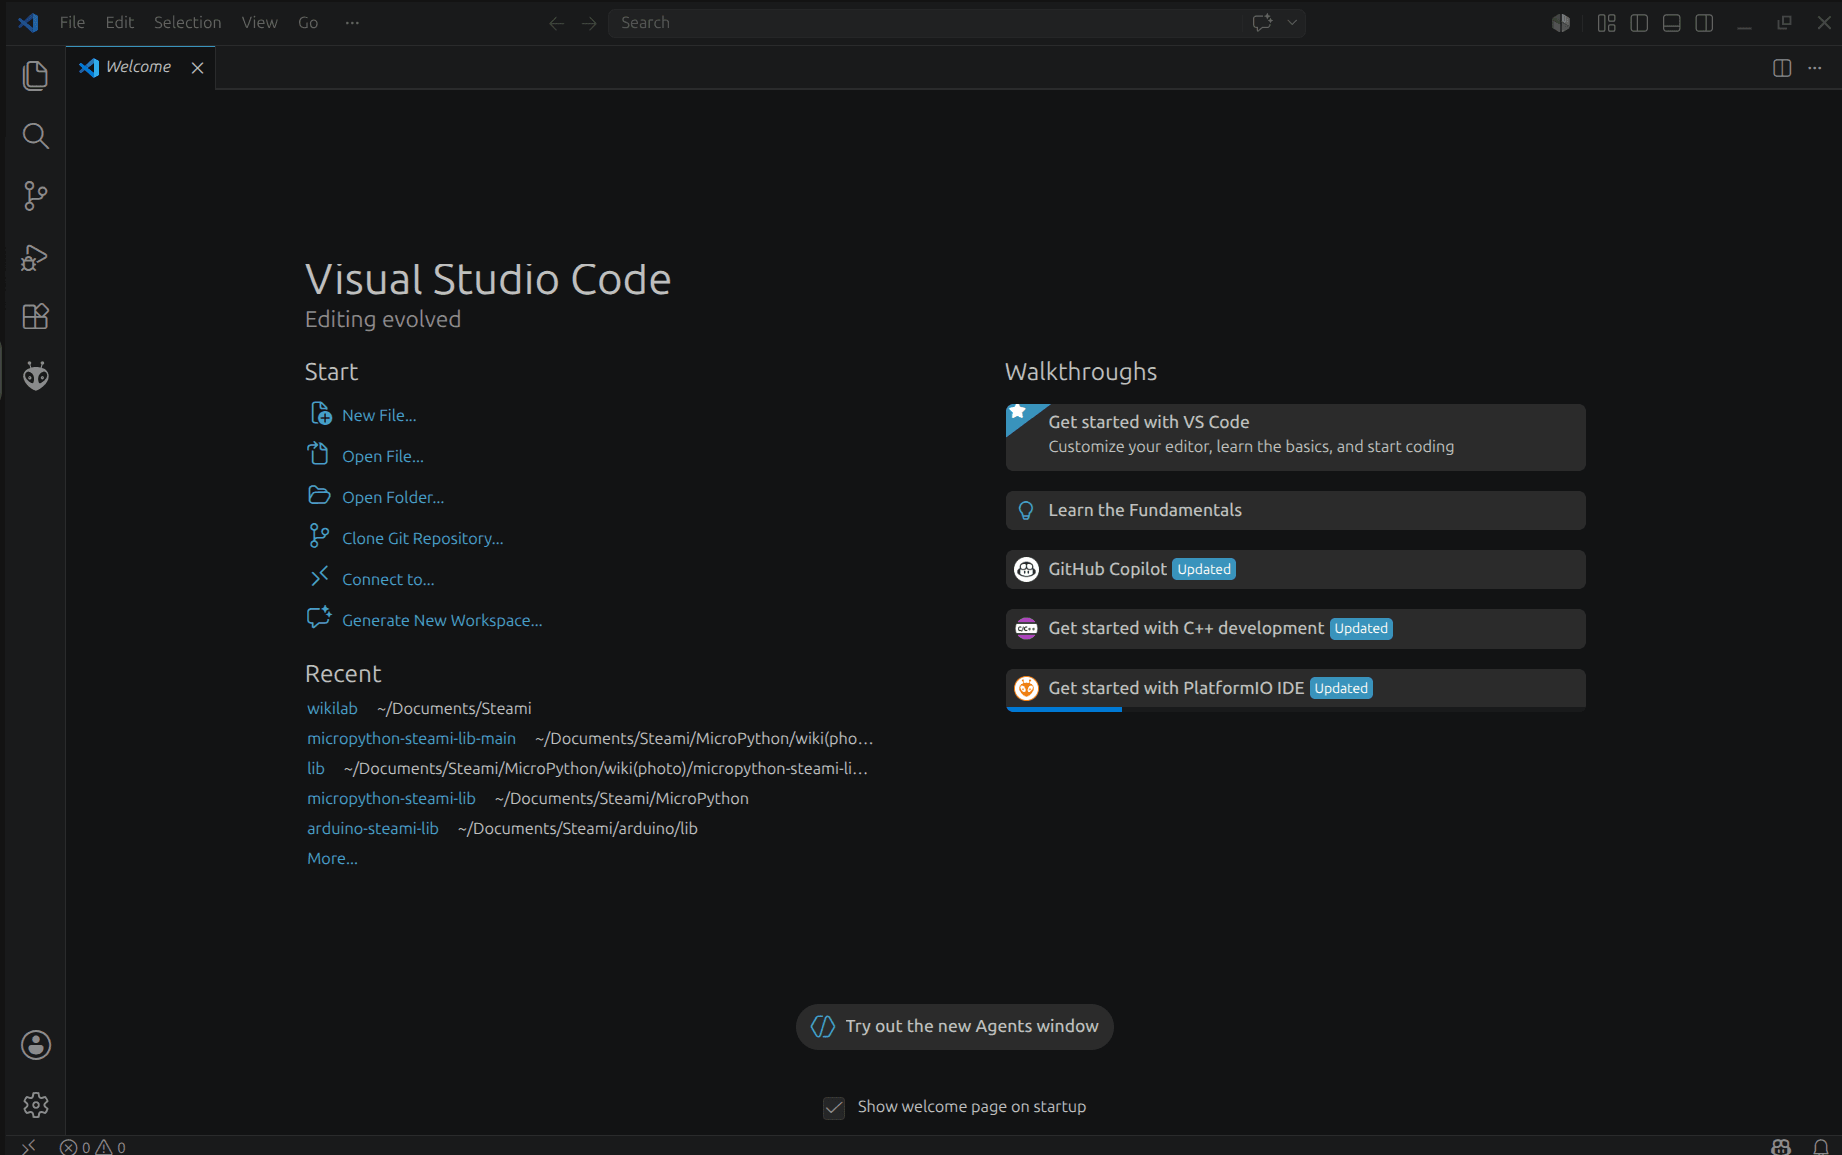
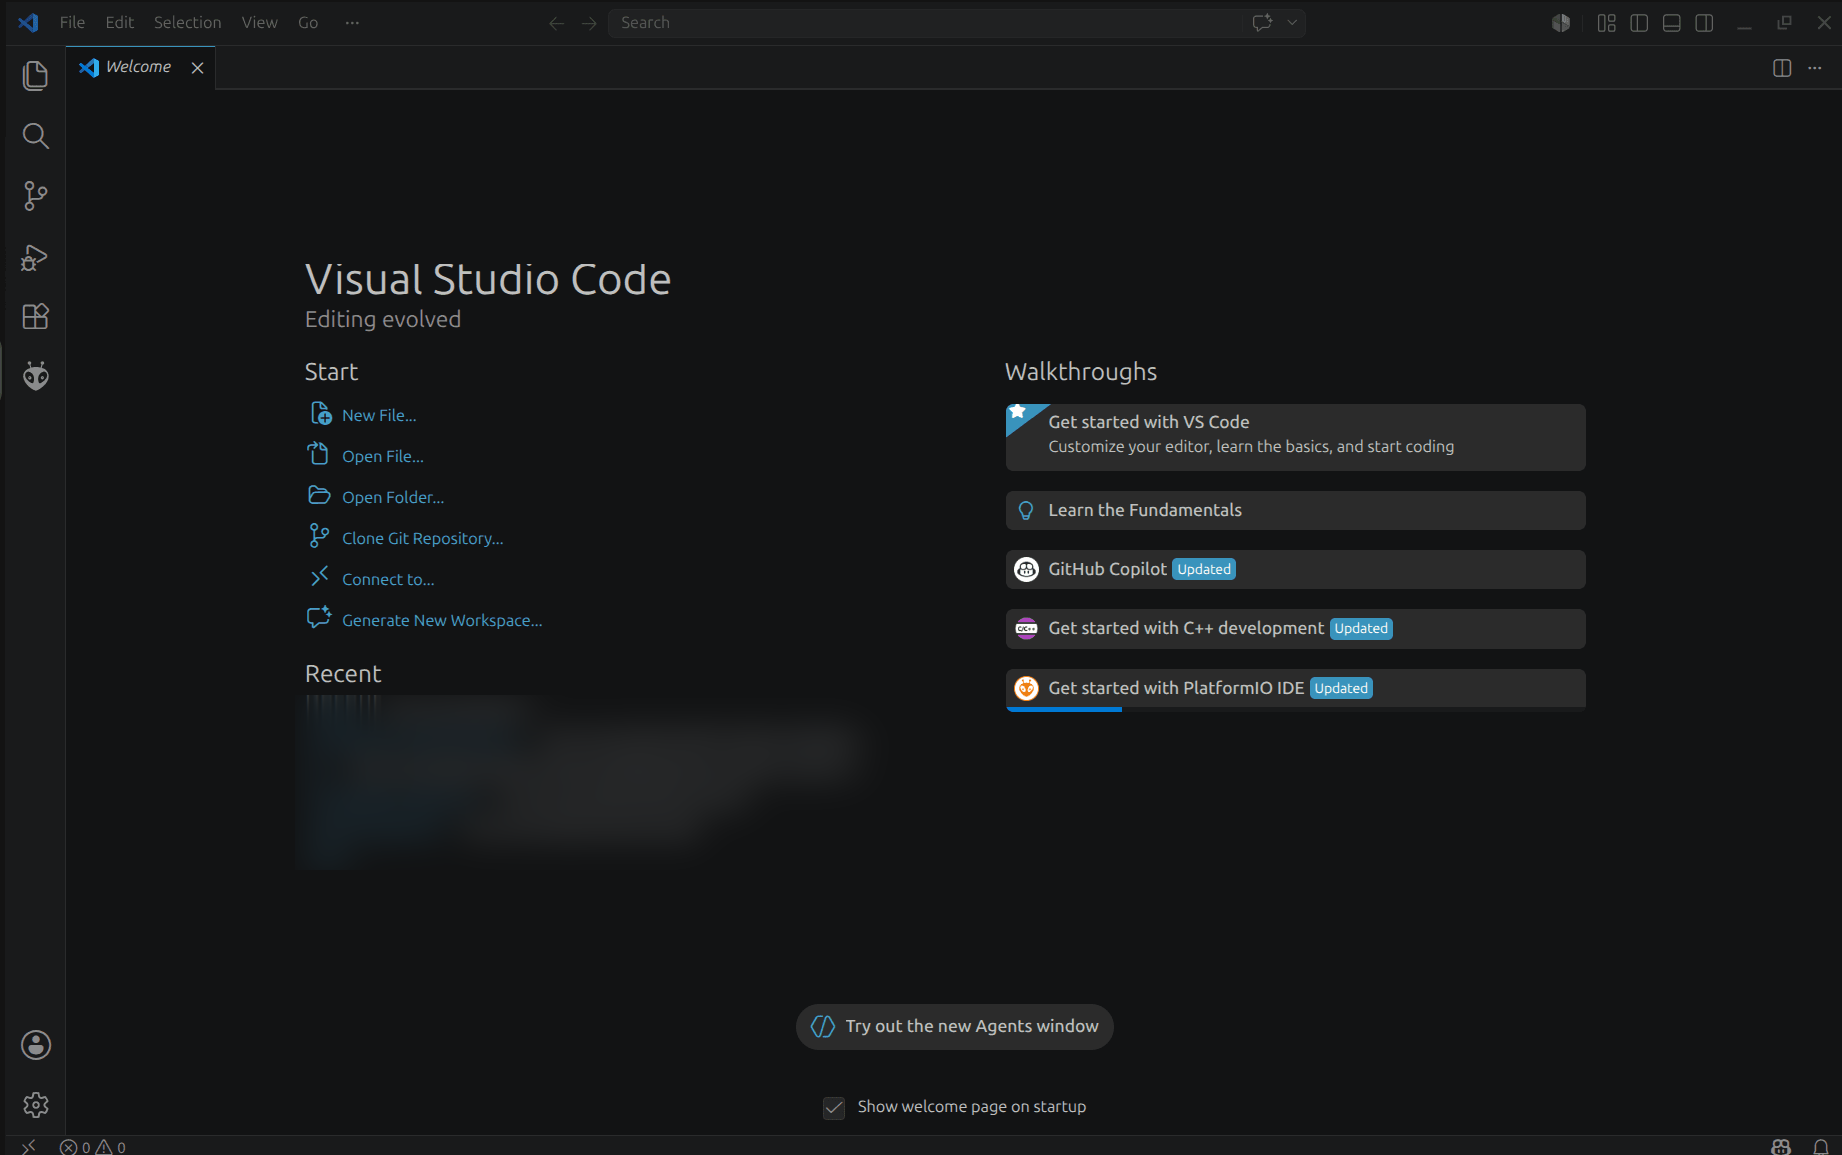
fix(inovmicro-exao): complète t04-vscode (Aller plus loin, figcaptions, captures)
- Ajoute la section ## Aller plus loin obligatoire (Pour comprendre /
  Pour s'inspirer / Pour approfondir) suivant le modèle t03 et la
  convention CONVENTIONS.md
- Renomme icone.png → VSCode.png pour rester cohérent avec les autres
  fiches éditeur (Thonny.png, Mu_editor.png, Vittascience_editor.png)
- Supprime le placeholder Vs_code.png laissé par le refactor #102 (non
  référencé)
- Floute la zone « Recent » de page.png pour masquer les chemins
  personnels exposés
- « VS Code version 1.60.0 ou supérieure » → « VS Code récent » (la
  version exacte n'est pas vraiment vérifiable et VS Code se met à jour
  automatiquement)
- Rend les figcaptions plus actives (instructions plutôt que
  descriptions neutres)

Refs #21

Changed region(s): [[0.1547, 0.5922, 0.4642, 0.7481]]

diff --git a/site/src/data/resources.ts b/site/src/data/resources.ts
@@ -3743,7 +3743,7 @@ export const resources: Resource[] = [
     formats: ['programmation'],
     categories: ['programmation'],
     keywords: ['STeaMi', 'MicroPython', 'VS Code', 'REPL', 'éditeur', 'desktop'],
-    thumbnail: '/img/ressources/inovmicro-exao/t04-vscode/icone.png',
+    thumbnail: '/img/ressources/inovmicro-exao/t04-vscode/VSCode.png',
     section: 'Prise en main',
   },
   {

diff --git a/site/docs/inovmicro-exao/t04-vscode.md b/site/docs/inovmicro-exao/t04-vscode.md
@@ -25,10 +25,10 @@ sidebar_position: 4
 - 1 carte STeaMi
 - 1 câble USB de données (micro-USB pour la STeaMi V1, USB-C pour la STeaMi V2). Attention : un câble qui ne sert qu'à charger un téléphone ne fonctionnera pas.
 - 1 ordinateur sous Windows, macOS ou Linux
-- [VS Code](https://code.visualstudio.com/) installé (version 1.60.0 ou supérieure)
+- [VS Code](https://code.visualstudio.com/) installé (une version récente)
 - Le programme MicroPython STeaMi `.hex` ([dernière release](https://github.com/steamicc/micropython-steami-lib/releases))
 </div>
-<img src="/img/ressources/inovmicro-exao/t04-vscode/icone.png" alt="Logo VS Code" style={{width: '225px', height: '225px', objectFit: 'contain', flexShrink: 0}} />
+<img src="/img/ressources/inovmicro-exao/t04-vscode/VSCode.png" alt="Logo VS Code" style={{width: '225px', height: '225px', objectFit: 'contain', flexShrink: 0}} />
 </div>
 ---
 
@@ -67,7 +67,7 @@ Quel que soit votre système d'exploitation, vous pouvez télécharger et instal
     style={{maxWidth: '800px', height: 'auto'}}
   />
   <figcaption style={{fontStyle: 'italic', marginTop: '0.5rem'}}>
-    Page de téléchargement de Visual Studio Code sur le site officiel.
+    Choisir la version qui correspond à votre système (Windows, Linux ou macOS) puis suivre les instructions d'installation.
   </figcaption>
 </figure>
 
@@ -82,7 +82,7 @@ Quand vous lancez VS Code pour la première fois, vous devriez voir cette fenêt
     style={{maxWidth: '800px', height: 'auto'}}
   />
   <figcaption style={{fontStyle: 'italic', marginTop: '0.5rem'}}>
-    Page d'accueil de Visual Studio Code au premier démarrage.
+    La page d'accueil propose des raccourcis (Open Folder, Clone Git Repository) et des walkthroughs pour découvrir l'interface.
   </figcaption>
 </figure>
 
@@ -106,7 +106,7 @@ Si ce n'est pas le cas, vous devrez installer le firmware MicroPython sur votre 
     style={{maxWidth: '800px', height: 'auto'}}
   />
   <figcaption style={{fontStyle: 'italic', marginTop: '0.5rem'}}>
-    Fichier .hex du firmware MicroPython.
+    Sur la page des releases STeaMi, télécharger uniquement `steami-micropython-firmware-vX.Y.Z.hex` (pas le `daplink`).
   </figcaption>
 </figure>
 
@@ -262,17 +262,35 @@ La plupart des problèmes rencontrés ne sont pas spécifiques à VS Code mais t
 - `Device is busy` (programme déjà en cours) ;
 - un `main.py` qui redémarre en boucle.
 
---- 
+---
 
-## Ressources et liens utiles
+## Aller plus loin
 
-- [Site STeaMi](https://www.steami.cc/) : présentation matérielle
-- [Wiki STeaMi : Premiers pas](https://wiki.steami.cc/docs/software/getting-started)
-- [Wiki STeaMi : Hardware](https://wiki.steami.cc/docs/hardware/) (pinout détaillé)
-- [Drivers MicroPython STeaMi](https://github.com/steamicc/micropython-steami-lib)
-- [Documentation MicroPython](https://docs.micropython.org/)
-- [thonny.org](https://thonny.org/)
-- [MOOC FUN : Programmer un objet avec MicroPython](https://www.fun-mooc.fr/fr/cours/programmer-un-objet-avec-micropython/)
+### Pour comprendre
+
+- **[VS Code (Wikipédia)](https://fr.wikipedia.org/wiki/Visual_Studio_Code)** : lancé par Microsoft en 2015, VS Code est un éditeur **libre** (licence MIT) qui repose sur le framework Electron, la même technologie qui fait tourner Slack, Discord ou Spotify. Une application web déguisée en application de bureau, qui peut ajouter des fonctionnalités via des extensions écrites en JavaScript.
+- **[Le Language Server Protocol (Wikipédia)](https://fr.wikipedia.org/wiki/Language_Server_Protocol)** : VS Code a popularisé en 2016 un format standard pour communiquer entre un éditeur et un langage de programmation (autocomplétion, détection d'erreurs, renommage). Aujourd'hui Neovim, Emacs, Sublime, IntelliJ parlent tous ce même protocole. Un exemple concret de standard utile qui émerge.
+- **[L'histoire de MicroPython (Wikipédia)](https://fr.wikipedia.org/wiki/MicroPython)** : lancé en 2013 par Damien George via une campagne Kickstarter, MicroPython est une **implémentation de Python** pensée pour les systèmes embarqués, capable de tourner sur des cartes avec très peu de mémoire. C'est lui qui rend possible le code que vous venez d'exécuter sur la STeaMi.
+- **[Electron (Wikipédia)](<https://fr.wikipedia.org/wiki/Electron_(framework)>)** : créé par GitHub en 2013 pour transformer une page web en application de bureau. Approche controversée (gourmande en RAM), mais qui a permis à VS Code, Slack ou Discord d'être identiques sur Windows, macOS et Linux.
+
+### Pour s'inspirer
+
+- **[Live Share : programmer à plusieurs sur le même écran](https://code.visualstudio.com/learn/collaboration/live-share)** : extension officielle VS Code qui permet à plusieurs personnes d'éditer le même fichier en temps réel, comme un Google Docs du code. Pratique pour s'entraider en classe ou demander un coup de main à distance.
+- **[mpremote, la télécommande des cartes MicroPython](https://docs.micropython.org/en/latest/reference/mpremote.html)** : la commande utilisée dans cette fiche pilote tout un écosystème — STeaMi, BBC micro:bit, ESP32, Raspberry Pi Pico, Pyboard. Une seule syntaxe pour une demi-douzaine de cartes différentes.
+- **[La guerre des éditeurs (Wikipédia)](https://fr.wikipedia.org/wiki/Guerre_des_%C3%A9diteurs)** : depuis les années 80, les développeurs s'opposent en deux camps autour de leur choix d'éditeur (vim vs Emacs, puis tous les autres). Une « guerre » mi-sérieuse mi-amusée qui a duré 40 ans, jusqu'à ce que VS Code finisse par mettre presque tout le monde d'accord. Les outils façonnent les communautés.
+- **[GitHub Copilot (Wikipédia)](https://fr.wikipedia.org/wiki/GitHub_Copilot)** : l'extension VS Code qui propose en temps réel des suggestions de code générées par une IA. Gratuite pour les enseignant·es et les élèves via [GitHub Education](https://education.github.com/). Outil clivant — aide ou triche ? — à tester en classe pour se forger une opinion.
+
+### Pour approfondir
+
+Documentation technique pour préparer une séquence ou répondre aux questions des élèves :
+
+- **[Site STeaMi](https://www.steami.cc/)** : présentation matérielle
+- **[Wiki STeaMi : Premiers pas](https://wiki.steami.cc/docs/software/getting-started)**
+- **[Wiki STeaMi : Hardware](https://wiki.steami.cc/docs/hardware/)** : pinout détaillé
+- **[Drivers MicroPython STeaMi](https://github.com/steamicc/micropython-steami-lib)** : code source des modules `steami_*`
+- **[Documentation MicroPython](https://docs.micropython.org/)**
+- **[Documentation VS Code](https://code.visualstudio.com/docs)**
+- **[MOOC FUN : Programmer un objet avec MicroPython](https://www.fun-mooc.fr/fr/cours/programmer-un-objet-avec-micropython/)**
 
 ---
 
